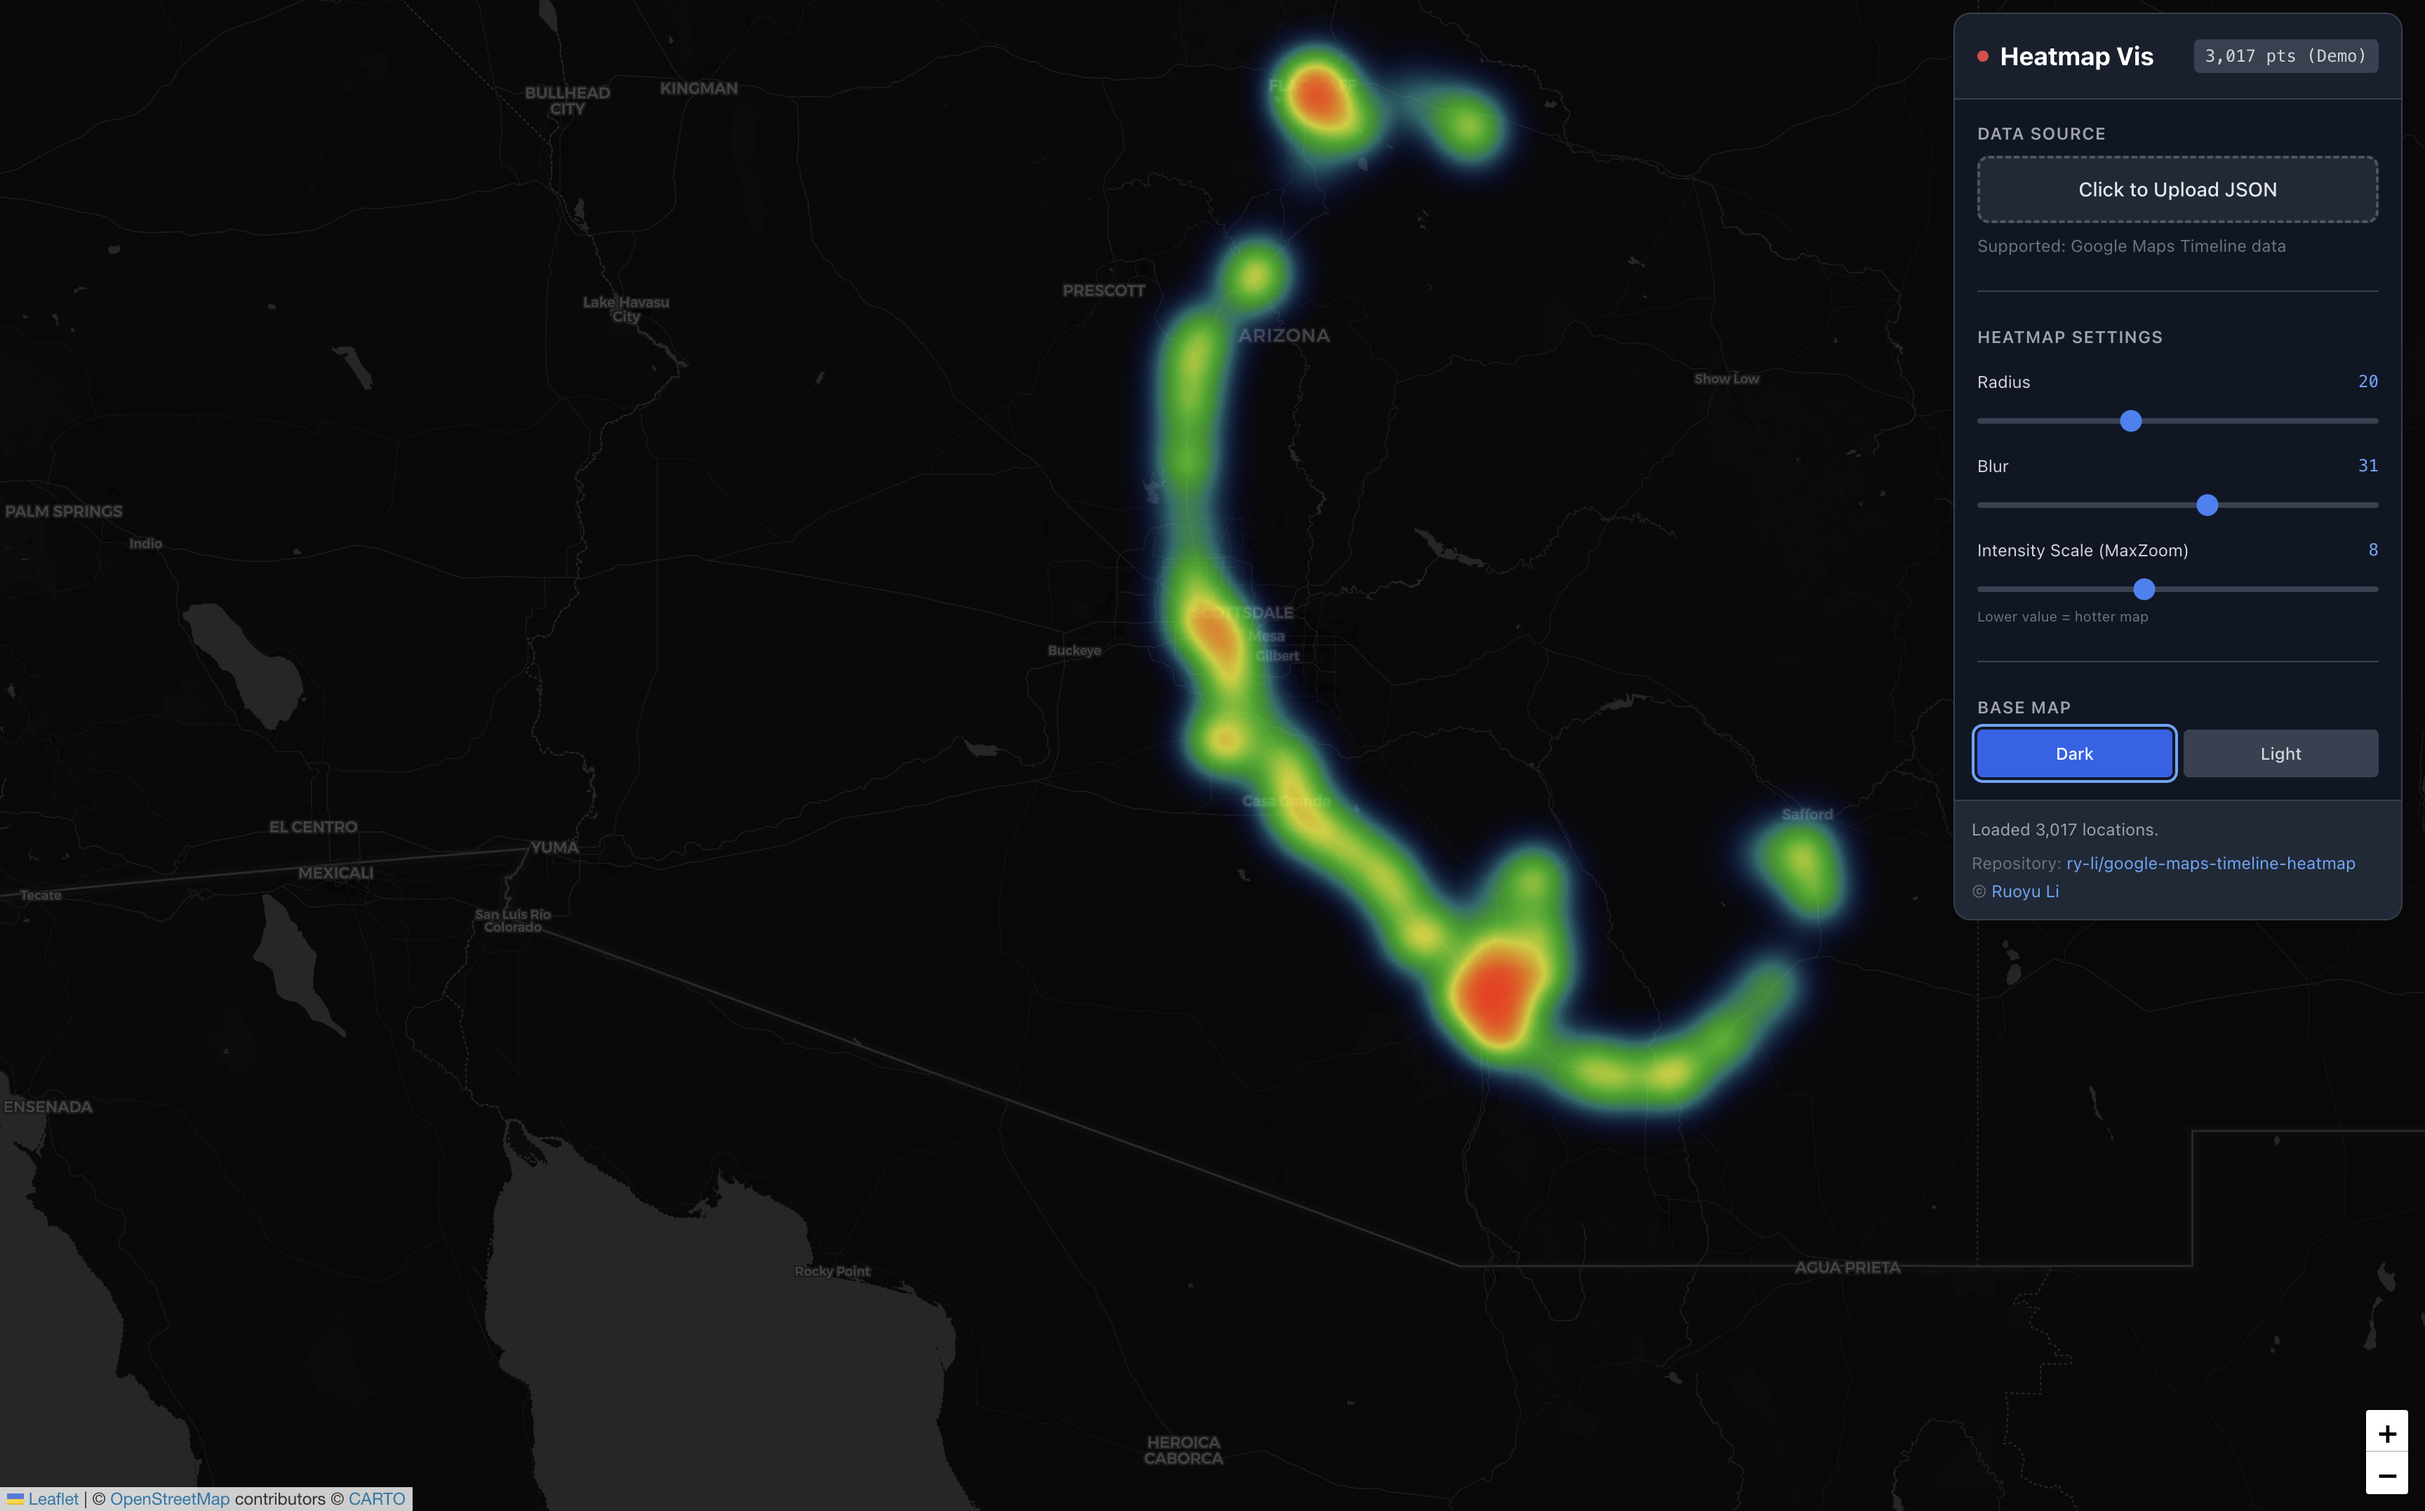
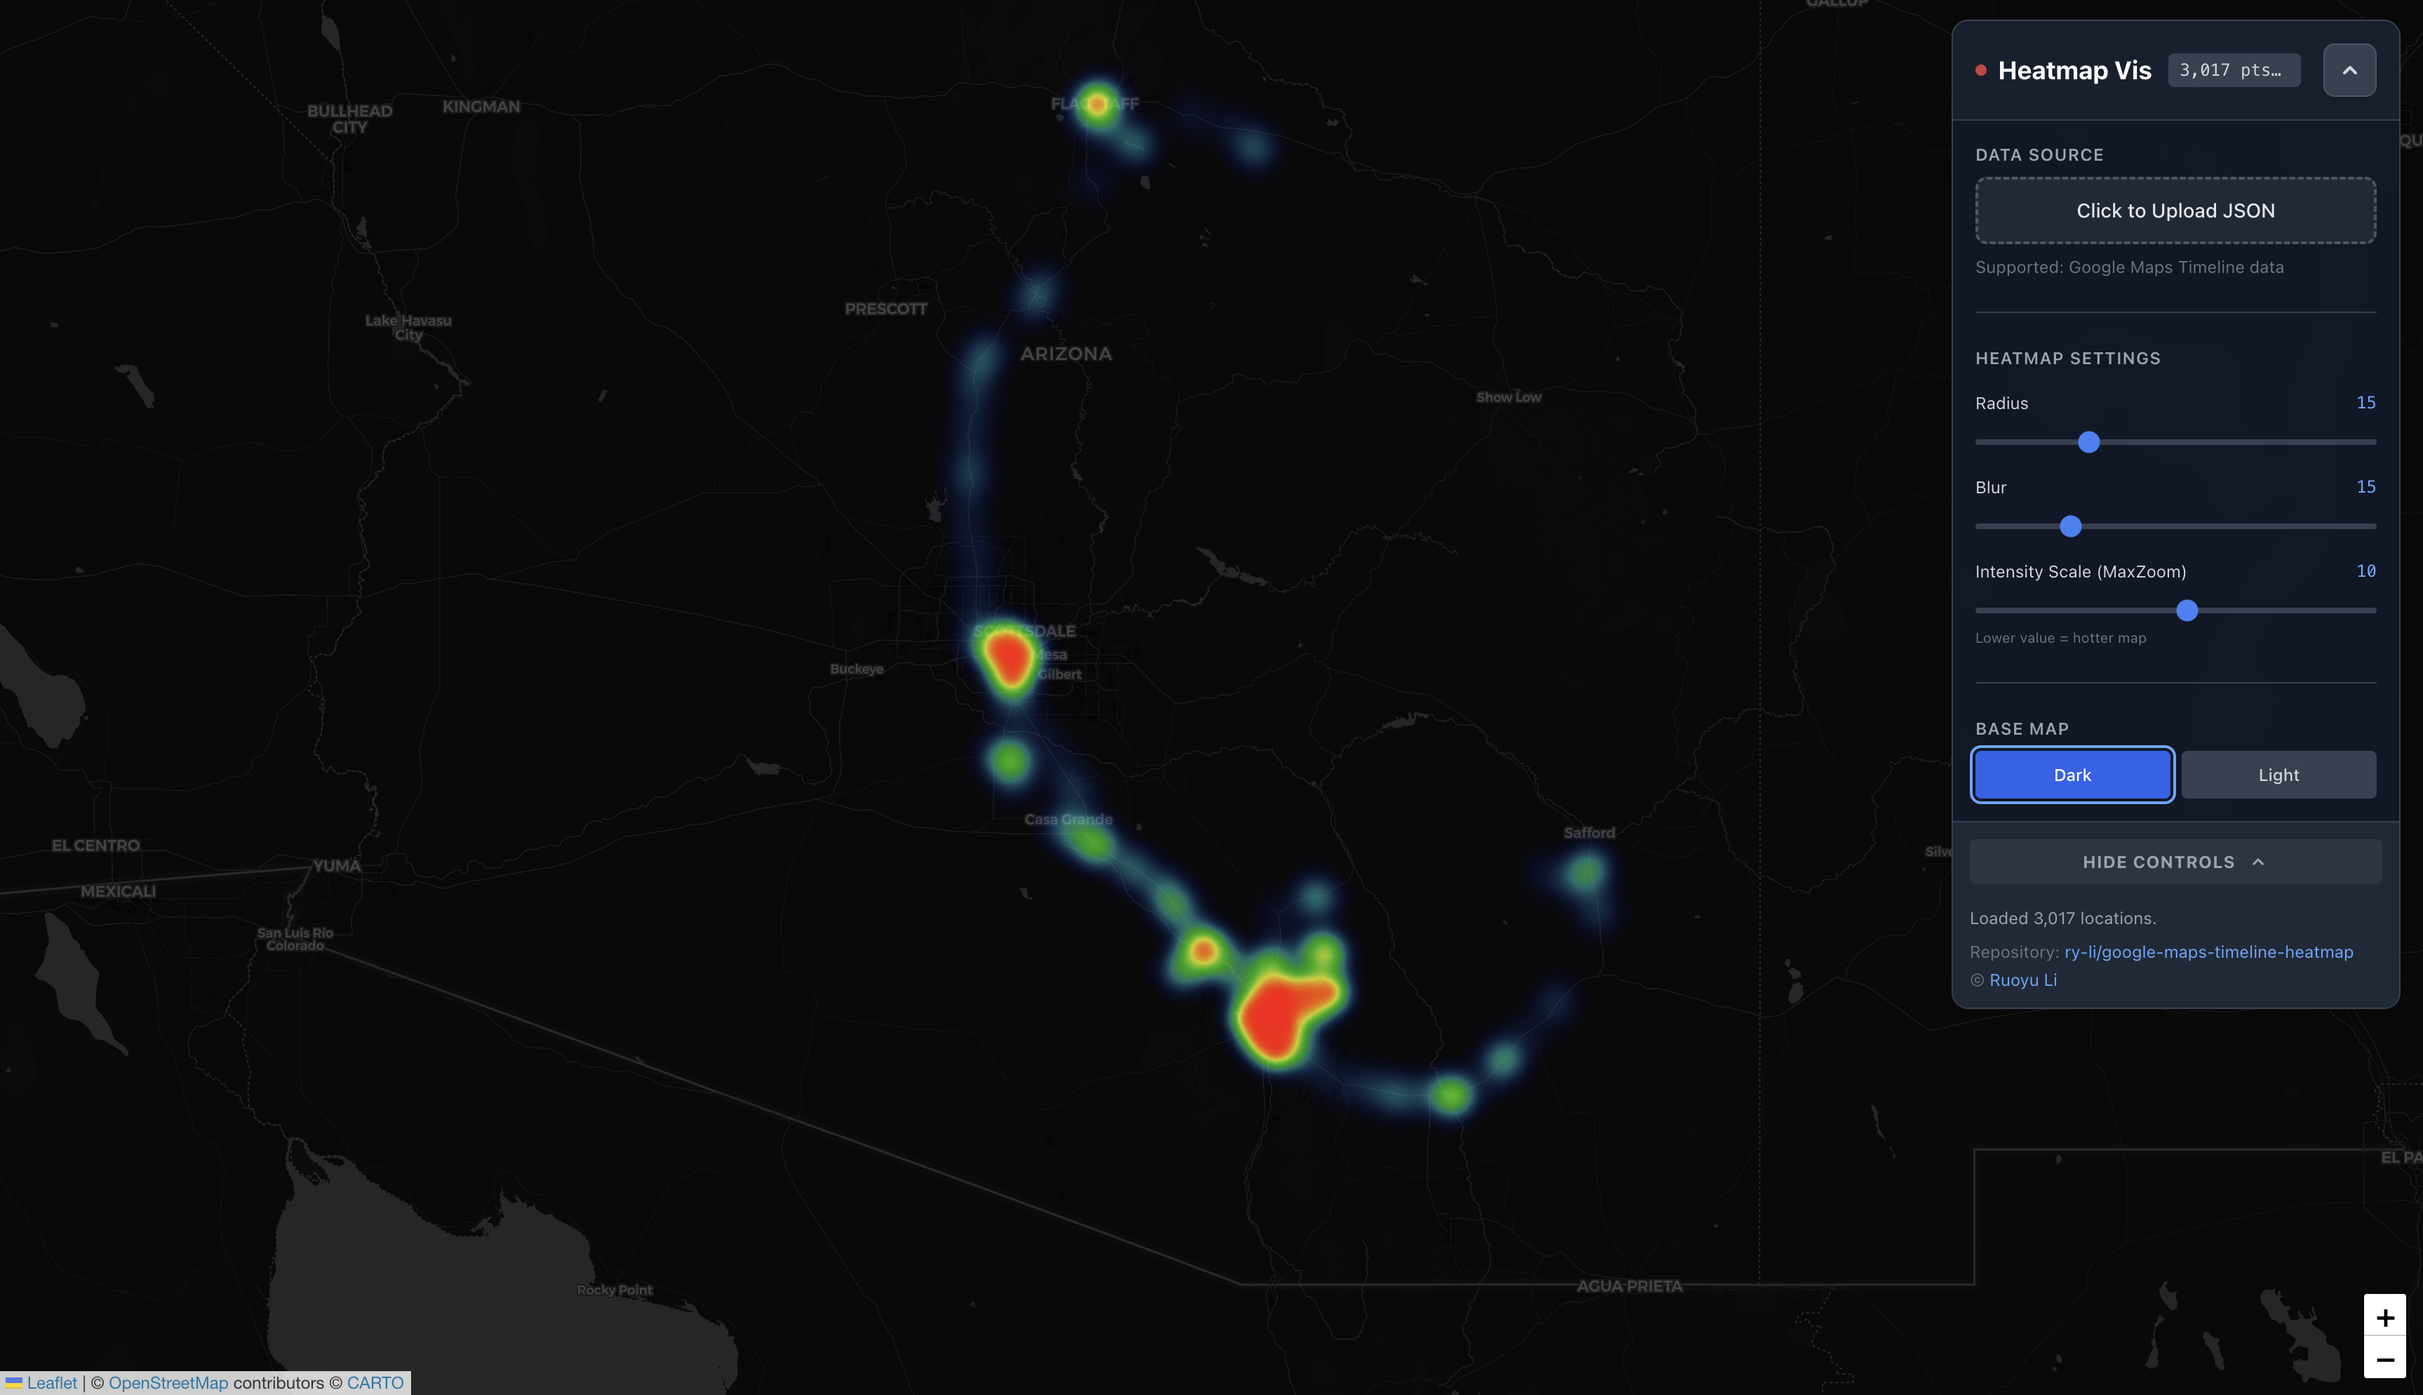
update control panel and preview pics

diff --git a/index.html b/index.html
@@ -89,22 +89,23 @@
     </div>
 
     <!-- Floating Control Panel -->
-    <div id="control-panel" class="absolute top-4 right-4 z-[999] w-80 max-w-[calc(100vw-2rem)] bg-gray-900/90 backdrop-blur-md border border-gray-700 rounded-xl shadow-2xl overflow-hidden flex flex-col transition-all duration-300 ease-in-out max-h-[90vh]">
+    <div id="control-panel" class="absolute top-4 right-4 z-[999] w-80 max-w-[calc(100vw-2rem)] bg-gray-900/95 backdrop-blur-md border border-gray-700 rounded-xl shadow-2xl overflow-hidden flex flex-col transition-all duration-300 ease-in-out max-h-[90vh]">
         <!-- Header -->
-        <div id="panel-header" class="p-4 border-b border-gray-700 bg-gray-800/50 flex justify-between items-center cursor-pointer hover:bg-gray-800/80 transition-colors select-none">
-            <div class="flex items-center gap-3 overflow-hidden">
+        <div id="panel-header" class="p-4 border-b border-gray-700 bg-gray-800/50 flex justify-between items-center cursor-pointer hover:bg-gray-800/80 transition-colors select-none group">
+            <div class="flex items-center gap-3 overflow-hidden flex-1 mr-4">
                 <h1 class="text-lg font-bold text-white flex items-center gap-2 whitespace-nowrap">
                     <span class="w-2 h-2 rounded-full bg-red-500 animate-pulse"></span>
                     Heatmap Vis
                 </h1>
                 <span id="point-count" class="text-xs font-mono bg-gray-700 px-2 py-1 rounded text-gray-300 truncate">0 pts</span>
             </div>
-            <!-- Toggle Button Icon -->
-            <div id="toggle-icon" class="text-gray-400 transform transition-transform duration-300">
-                <svg xmlns="http://www.w3.org/2000/svg" class="h-5 w-5" viewBox="0 0 20 20" fill="currentColor">
+            
+            <!-- Distinct Header Toggle Button -->
+            <button id="header-toggle-btn" class="flex-shrink-0 p-2 bg-gray-700 group-hover:bg-gray-600 rounded-lg text-gray-300 hover:text-white transition-all shadow-md border border-gray-600">
+                <svg id="header-chevron" xmlns="http://www.w3.org/2000/svg" class="h-5 w-5 transform transition-transform duration-300" viewBox="0 0 20 20" fill="currentColor">
                     <path fill-rule="evenodd" d="M14.707 12.707a1 1 0 01-1.414 0L10 9.414l-3.293 3.293a1 1 0 01-1.414-1.414l4-4a1 1 0 011.414 0l4 4a1 1 0 010 1.414z" clip-rule="evenodd" />
                 </svg>
-            </div>
+            </button>
         </div>
 
         <!-- Collapsible Content Wrapper -->
@@ -175,6 +176,14 @@
 
             <!-- Status Footer -->
             <div class="p-3 bg-gray-800 border-t border-gray-700 flex flex-col gap-2">
+                <!-- New Bottom Collapse Button -->
+                <button id="bottom-toggle-btn" class="w-full py-2 bg-gray-700/50 hover:bg-gray-700 rounded text-xs font-bold text-gray-400 hover:text-white uppercase tracking-wider transition-colors flex items-center justify-center gap-2 mb-2">
+                    <span>Hide Controls</span>
+                    <svg xmlns="http://www.w3.org/2000/svg" class="h-4 w-4" viewBox="0 0 20 20" fill="currentColor">
+                        <path fill-rule="evenodd" d="M14.707 12.707a1 1 0 01-1.414 0L10 9.414l-3.293 3.293a1 1 0 01-1.414-1.414l4-4a1 1 0 011.414 0l4 4a1 1 0 010 1.414z" clip-rule="evenodd" />
+                    </svg>
+                </button>
+
                 <div id="status-bar" class="text-xs text-gray-400 flex items-center gap-2 hidden">
                     <div class="loader w-4 h-4 border-2"></div>
                     <span id="status-text">Processing...</span>
@@ -202,7 +211,8 @@
         // Panel Toggle Elements
         const panelHeader = document.getElementById('panel-header');
         const panelContent = document.getElementById('panel-content');
-        const toggleIcon = document.getElementById('toggle-icon');
+        const headerChevron = document.getElementById('header-chevron');
+        const bottomToggleBtn = document.getElementById('bottom-toggle-btn');
         
         const radiusRange = document.getElementById('radius-range');
         const blurRange = document.getElementById('blur-range');
@@ -218,18 +228,29 @@
         // --- Toggle Logic ---
         let isMinimized = false;
         
-        panelHeader.addEventListener('click', () => {
+        function togglePanel(e) {
+            // Prevent event bubbling if clicking button vs header
+            if(e) e.stopPropagation();
+            
             isMinimized = !isMinimized;
+            
             if (isMinimized) {
+                // Minimize
                 panelContent.style.display = 'none';
-                toggleIcon.style.transform = 'rotate(180deg)';
-                panelHeader.classList.add('rounded-b-xl'); // Clean look when closed
+                headerChevron.style.transform = 'rotate(180deg)';
+                panelHeader.classList.add('rounded-b-xl');
             } else {
+                // Expand
                 panelContent.style.display = 'flex';
-                toggleIcon.style.transform = 'rotate(0deg)';
+                headerChevron.style.transform = 'rotate(0deg)';
                 panelHeader.classList.remove('rounded-b-xl');
             }
-        });
+        }
+
+        // Add listeners to header, header button, and bottom button
+        // Note: Header click covers the whole header area
+        panelHeader.addEventListener('click', togglePanel);
+        bottomToggleBtn.addEventListener('click', togglePanel);
 
         // --- Map Initialization ---
         const map = L.map('map', {
